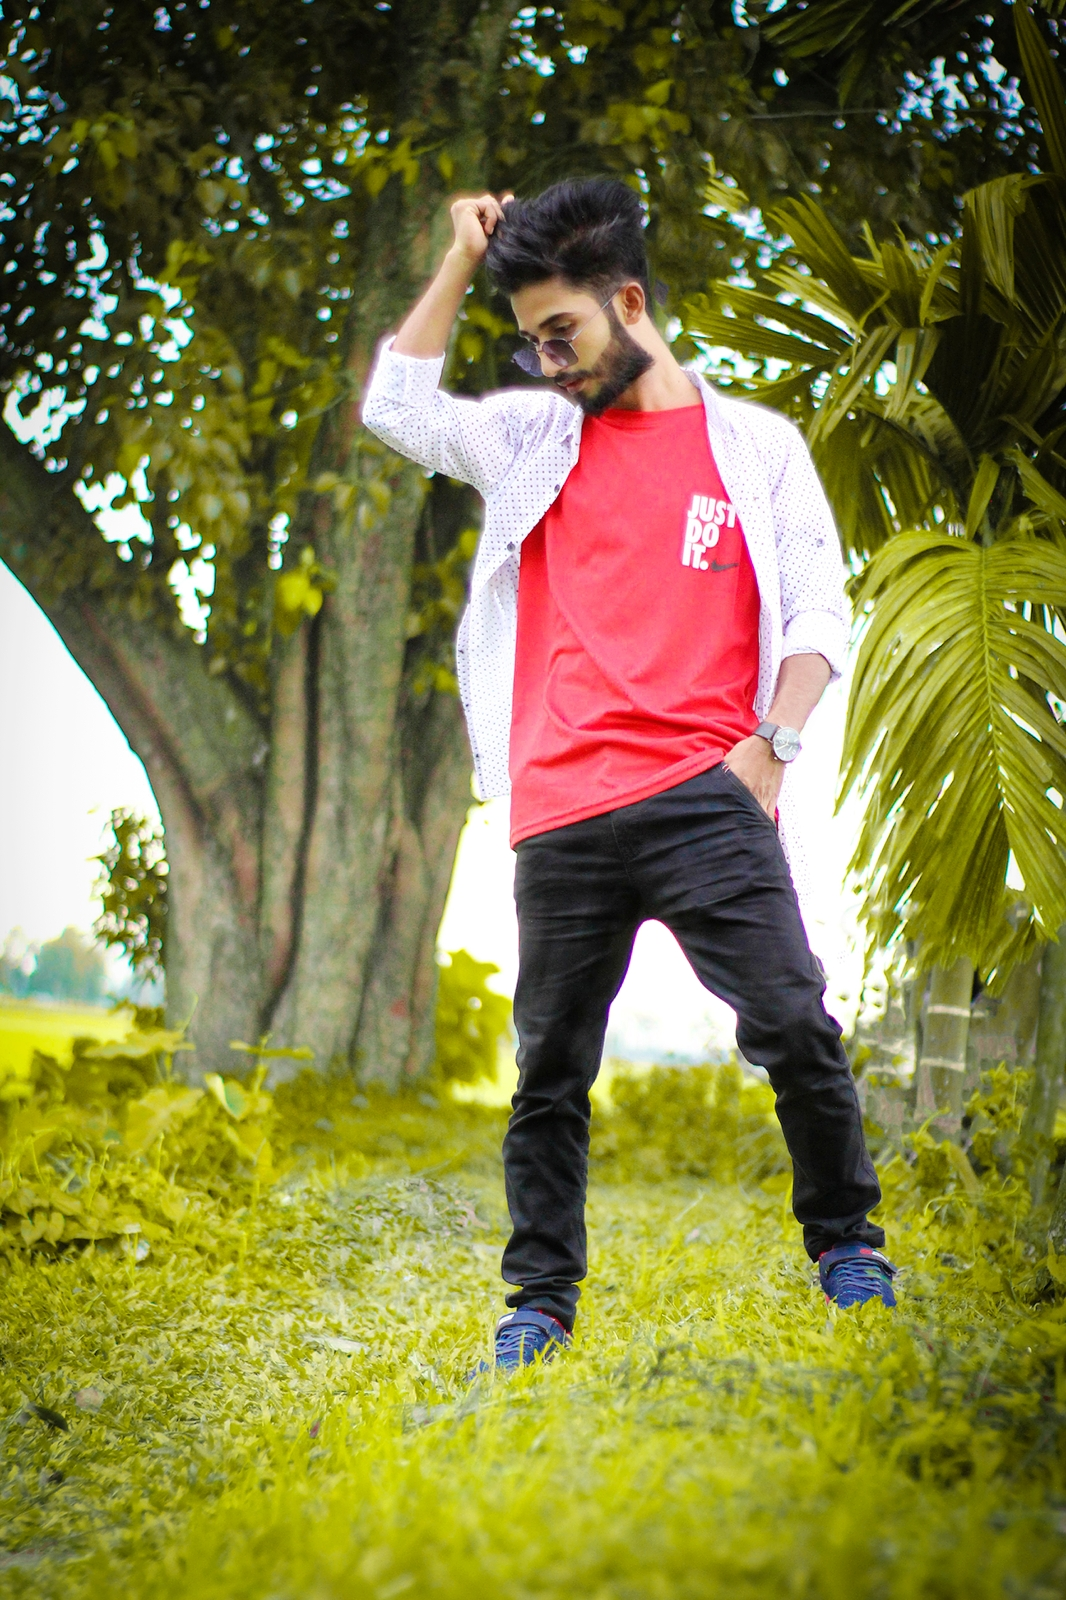
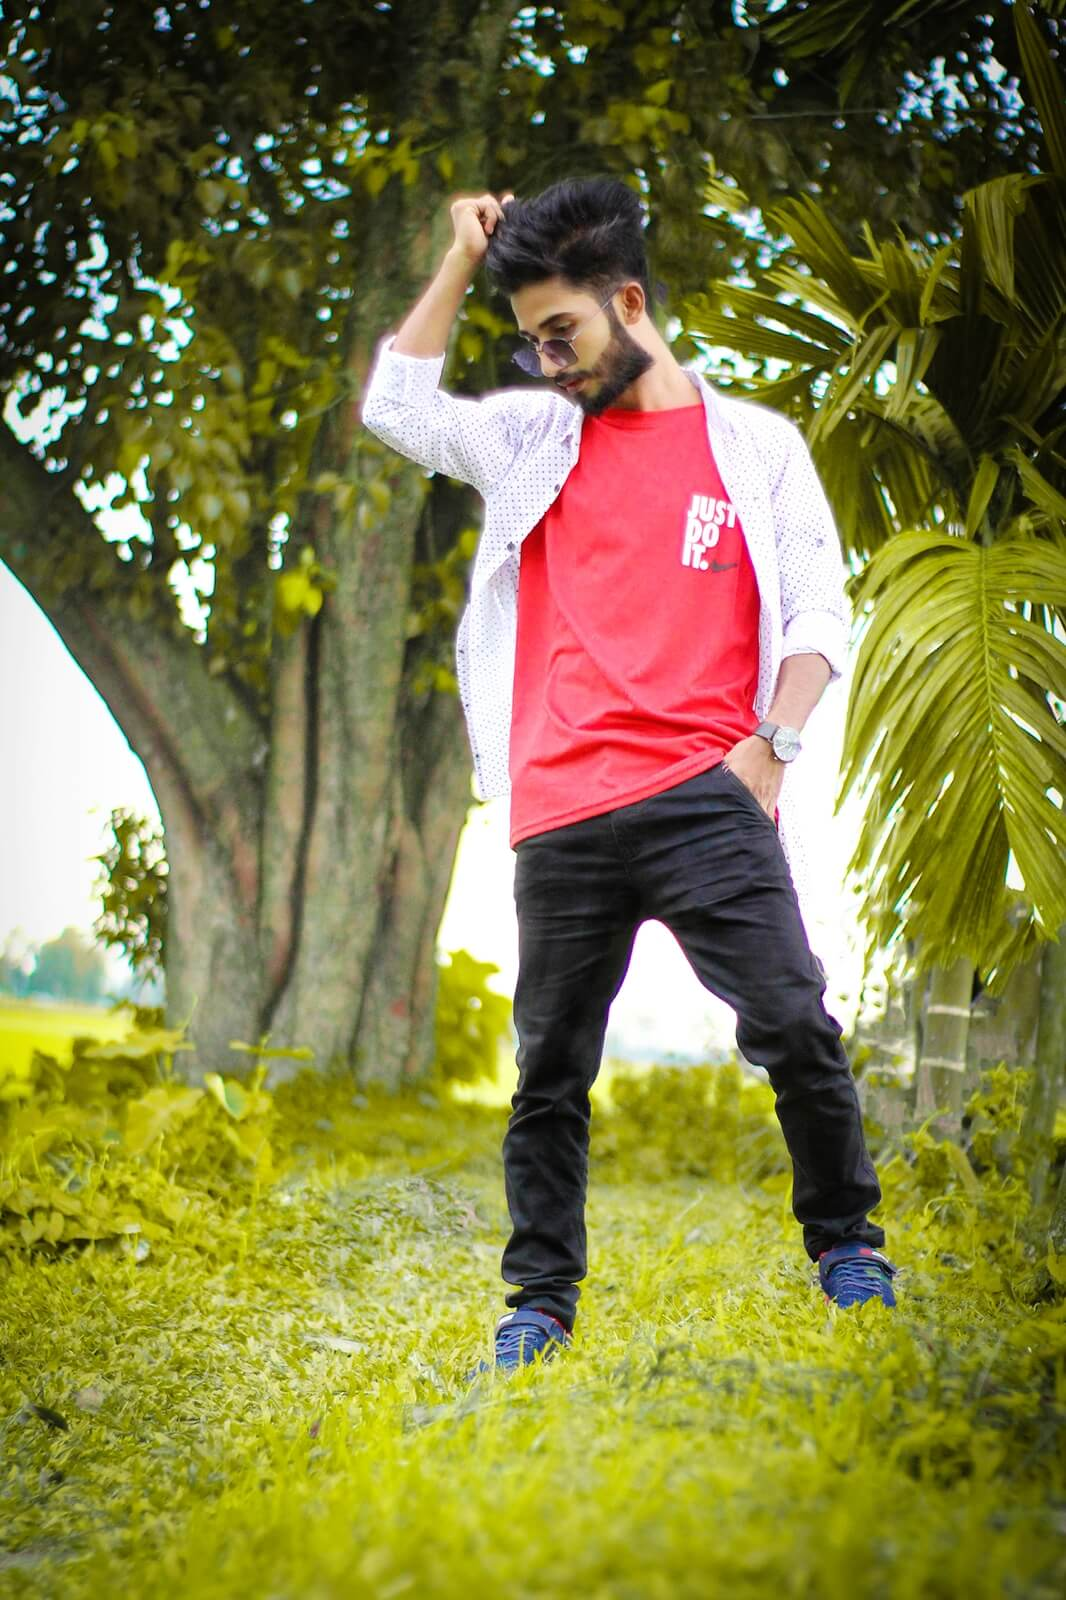
Images compression

diff --git a/index.html b/index.html
@@ -164,8 +164,7 @@
                         <p>
                           <em>
                             Email: <a href="mailto:team.humayun@gmail.com">team.humayun@gmail.com</a>
-                          </em>
-                          <br>
+                          </em><br>
                           <em>
                             Phone: <a href="tel:01873554665">018735-54665</a>
                           </em>
